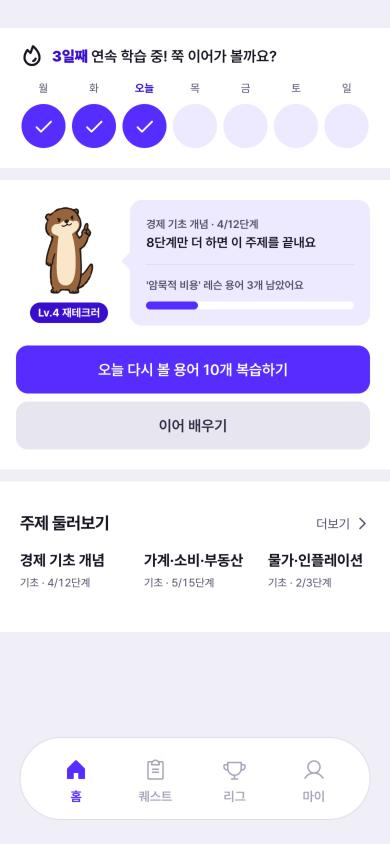
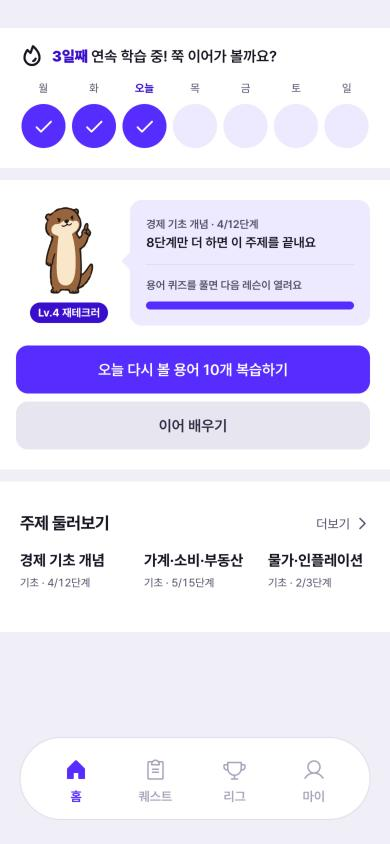
코스 필수 단계 순차 잠금 - 학습·퀴즈는 주제 안에서 순서대로만 열림(다음 코스 포함). 안 끝낸 첫 단계 뒤 미완료 단계는 잠김, 복습은 선택이라 잠그지 않음 - 지금 할 단계는 잠기지 않은 첫 미완료 단계(앞 퀴즈를 안 풀었으면 퀴즈) - 홈 안내: 퀴즈가 다음이면 '용어 퀴즈를 풀면 다음 레슨이 열려요' - 테스트 추가, 홈·주제 상세 스크린샷 갱신

Changed region(s): [[0.3692, 0.3081, 0.9231, 0.3697]]

diff --git a/src/pages/CourseScreen.tsx b/src/pages/CourseScreen.tsx
@@ -100,7 +100,20 @@ const CourseScreen = () => {
     return () => { cancelled = true; };
   }, []);
 
-  const sections = useMemo(() => buildPath(courses, knownIds), [courses, knownIds]);
+  // 필수 단계(학습·퀴즈)는 주제 안에서 순서대로만 연다(다음 코스 포함). 안 끝낸 첫 단계 뒤의 미완료 단계는 잠근다. 복습은 선택이라 잠그지 않는다
+  const sections = useMemo(() => {
+    const opened = new Set<string>();
+    return buildPath(courses, knownIds).map(sec => {
+      const key = `${sec.course.level}|${sec.course.category}`;
+      return { ...sec, nodes: sec.nodes.map(node => {
+        if (node.type === 'review') return node;
+        const done = node.state === 'done' || (doneNodes.has(node.id) && node.state === 'available');
+        if (done) return node;
+        if (!opened.has(key)) { opened.add(key); return node; }
+        return { ...node, state: 'locked' as const };
+      }) };
+    });
+  }, [courses, knownIds, doneNodes]);
   // 주제 = 레벨 안의 카테고리. courses는 sort_order가 레벨 순이라 첫 등장 순서대로 묶으면 기초→심화로 나열된다
   const topicKey = (sec: { course: { level: string; category: string } }) => `${sec.course.level}|${sec.course.category}`;
   const topics = useMemo(() => [...new Set(sections.map(topicKey))].map((key, index) => {
@@ -163,8 +176,9 @@ const CourseScreen = () => {
     const resumeTopic = topics.find(topic => topic.parts.some(part => part.section.course.id === resumeCourseId));
     const candidates = activeTopic ? activeTopic.parts.map(part => part.section) : [...(resumeTopic?.parts.map(part => part.section) ?? []), ...sections];
     for (const sec of candidates) {
-      const k = sec.nodes.findIndex(node => node.state === 'current');
-      if (k >= 0) return { id: sec.nodes[k].id, index: k, courseId: sec.course.id, words: sec.nodes[k].words };
+      // 지금 할 단계 = 잠기지 않은 첫 미완료 필수 단계(앞 퀴즈를 안 풀었으면 퀴즈)
+      const k = sec.nodes.findIndex(node => isStep(node) && !isDone(node) && node.state !== 'locked');
+      if (k >= 0) return { id: sec.nodes[k].id, type: sec.nodes[k].type, index: k, courseId: sec.course.id, words: sec.nodes[k].words };
     }
     return null;
   };
@@ -345,7 +359,7 @@ const CourseScreen = () => {
                 {focusTopic && <p className="course-home-bubble-topic">{focusTopic.category} · {focusSteps.done}/{focusSteps.total}단계</p>}
                 <p>{!focusTopic ? '모두 배웠어요! 가볍게 복습해 볼까요?' : focusSteps.done > 0 || focusTopic.known > 0 ? `${focusStepsLeft}단계만 더 하면 이 주제를 끝내요` : '오늘 첫 용어부터 같이 봐요'}</p>
                 <div className="course-home-level">
-                  <span className="course-home-level-label">{!focus ? '모든 학습을 마쳤어요!' : nextRemaining > 0 ? `'${nextWords[0]?.word}' 레슨 용어 ${nextRemaining}개 남았어요` : '다음 학습으로 넘어갈 수 있어요'}</span>
+                  <span className="course-home-level-label">{!focus ? '모든 학습을 마쳤어요!' : focus.type === 'quiz' ? '용어 퀴즈를 풀면 다음 레슨이 열려요' : nextRemaining > 0 ? `'${nextWords[0]?.word}' 레슨 용어 ${nextRemaining}개 남았어요` : '다음 학습으로 넘어갈 수 있어요'}</span>
                   <div role="progressbar" aria-label="다음 학습까지 진행률" aria-valuemin={0} aria-valuemax={100} aria-valuenow={nextProgress} className="course-home-level-track">
                     <span style={{ width: `${nextProgress}%` }} />
                   </div>

diff --git a/src/pages/CourseScreen.test.tsx b/src/pages/CourseScreen.test.tsx
@@ -158,6 +158,25 @@ beforeEach(() => {
   vi.mocked(logClick).mockClear();
 });
 
+describe('필수 단계 순차 잠금', () => {
+  // 16개 용어 = 레슨 4개: l0, l1, 중간 복습, l2, 퀴즈(c1-q4), l3, 마지막 퀴즈, 마지막 복습
+  it('앞 퀴즈를 풀기 전에는 다음 레슨을 잠그고, 풀면 연다', async () => {
+    const known = new Set(Array.from({ length: 12 }, (_, i) => i + 1));
+    baseContext({ courses: [course({ wordCount: 16 })], knownIds: known });
+    state.doneNodes = new Set();
+    let { container } = await mount('/course?topic=0');
+    expect(container.querySelector('[data-node-id="c1-q4"]')).not.toBeDisabled();
+    expect(container.querySelector('[data-node-id="c1-l3"]')).toBeDisabled();
+    // 복습은 선택이라 잠그지 않는다
+    expect(container.querySelector('[data-node-id="c1-r2"]')).not.toBeDisabled();
+    cleanup();
+    baseContext({ courses: [course({ wordCount: 16 })], knownIds: known });
+    state.doneNodes = new Set(['c1-q4']);
+    ({ container } = await mount('/course?topic=0'));
+    expect(container.querySelector('[data-node-id="c1-l3"]')).not.toBeDisabled();
+  });
+});
+
 describe('CourseScreen energy gates', () => {
   it('홈에서는 에너지가 넉넉하면 에너지 줄을 숨기고 부족할 때만 보여준다', async () => {
     baseContext({ energy: 7, energyMax: 25 });
